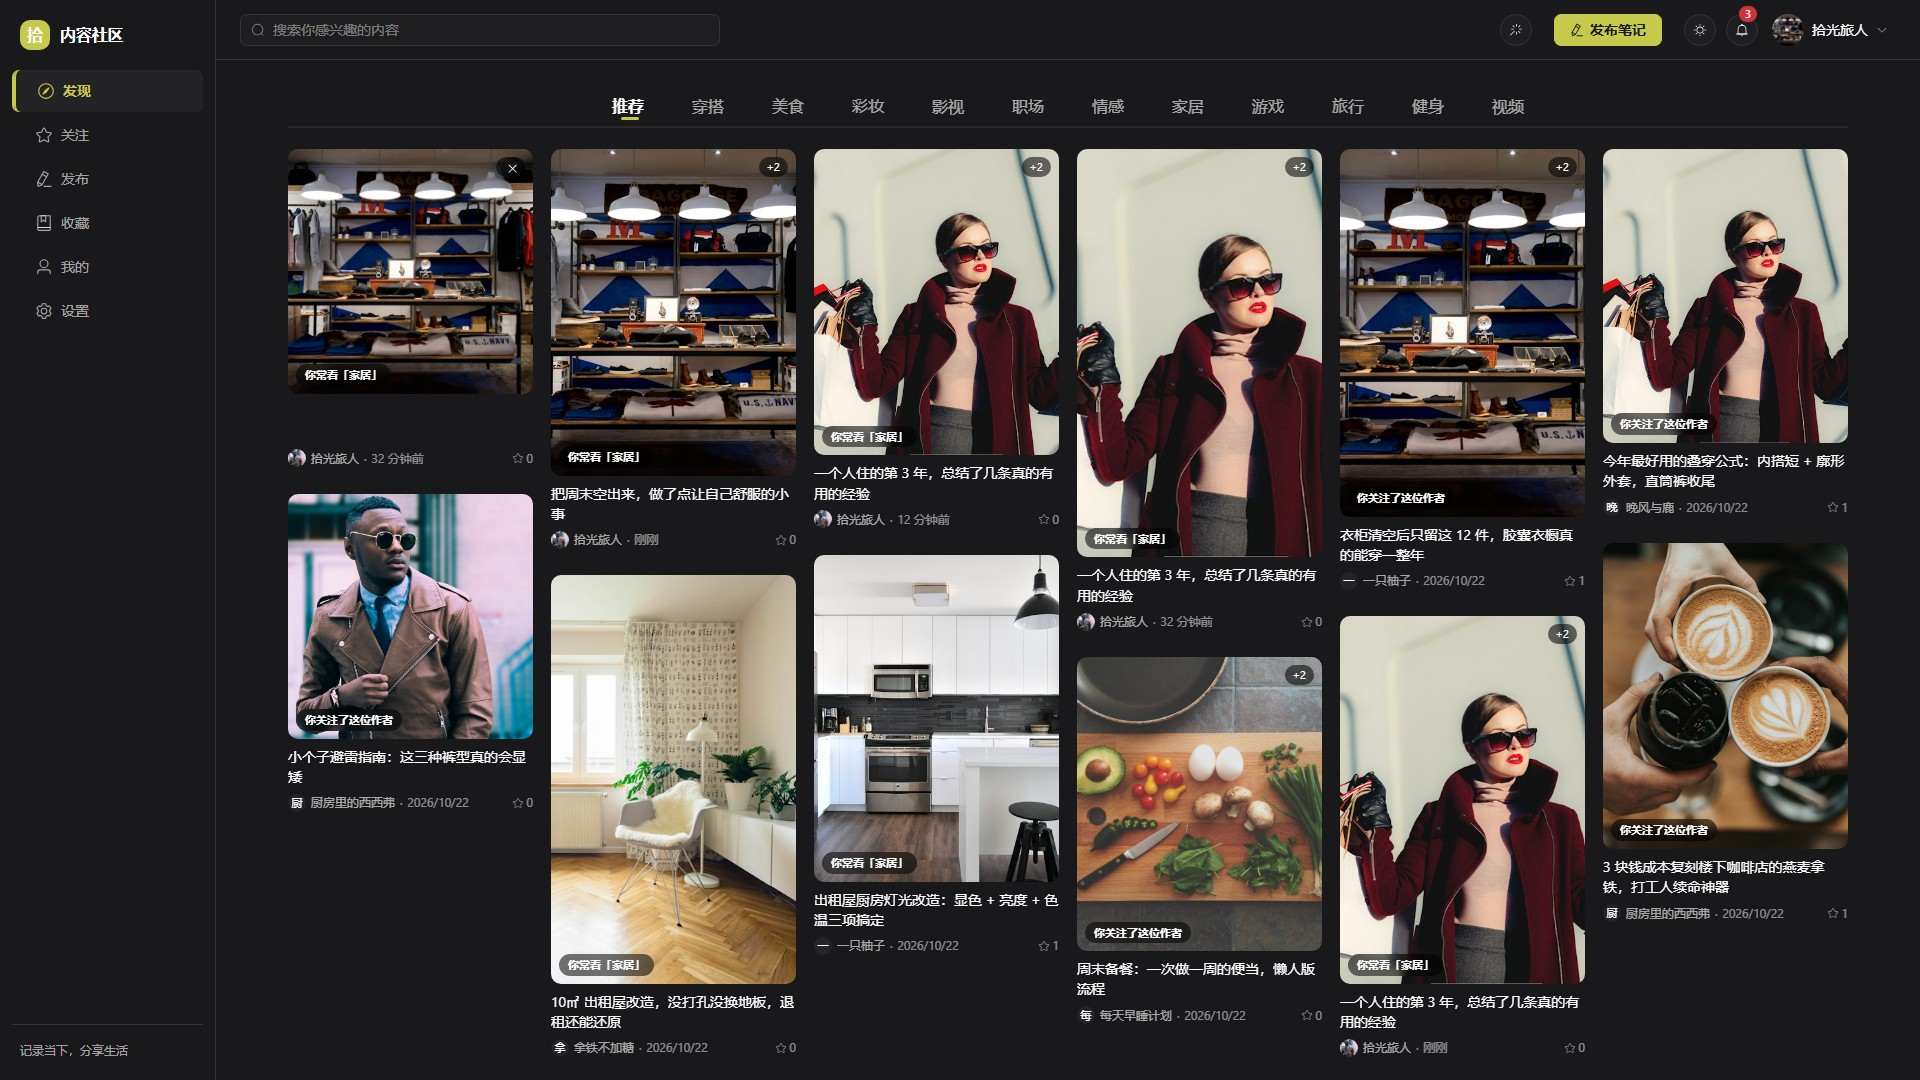
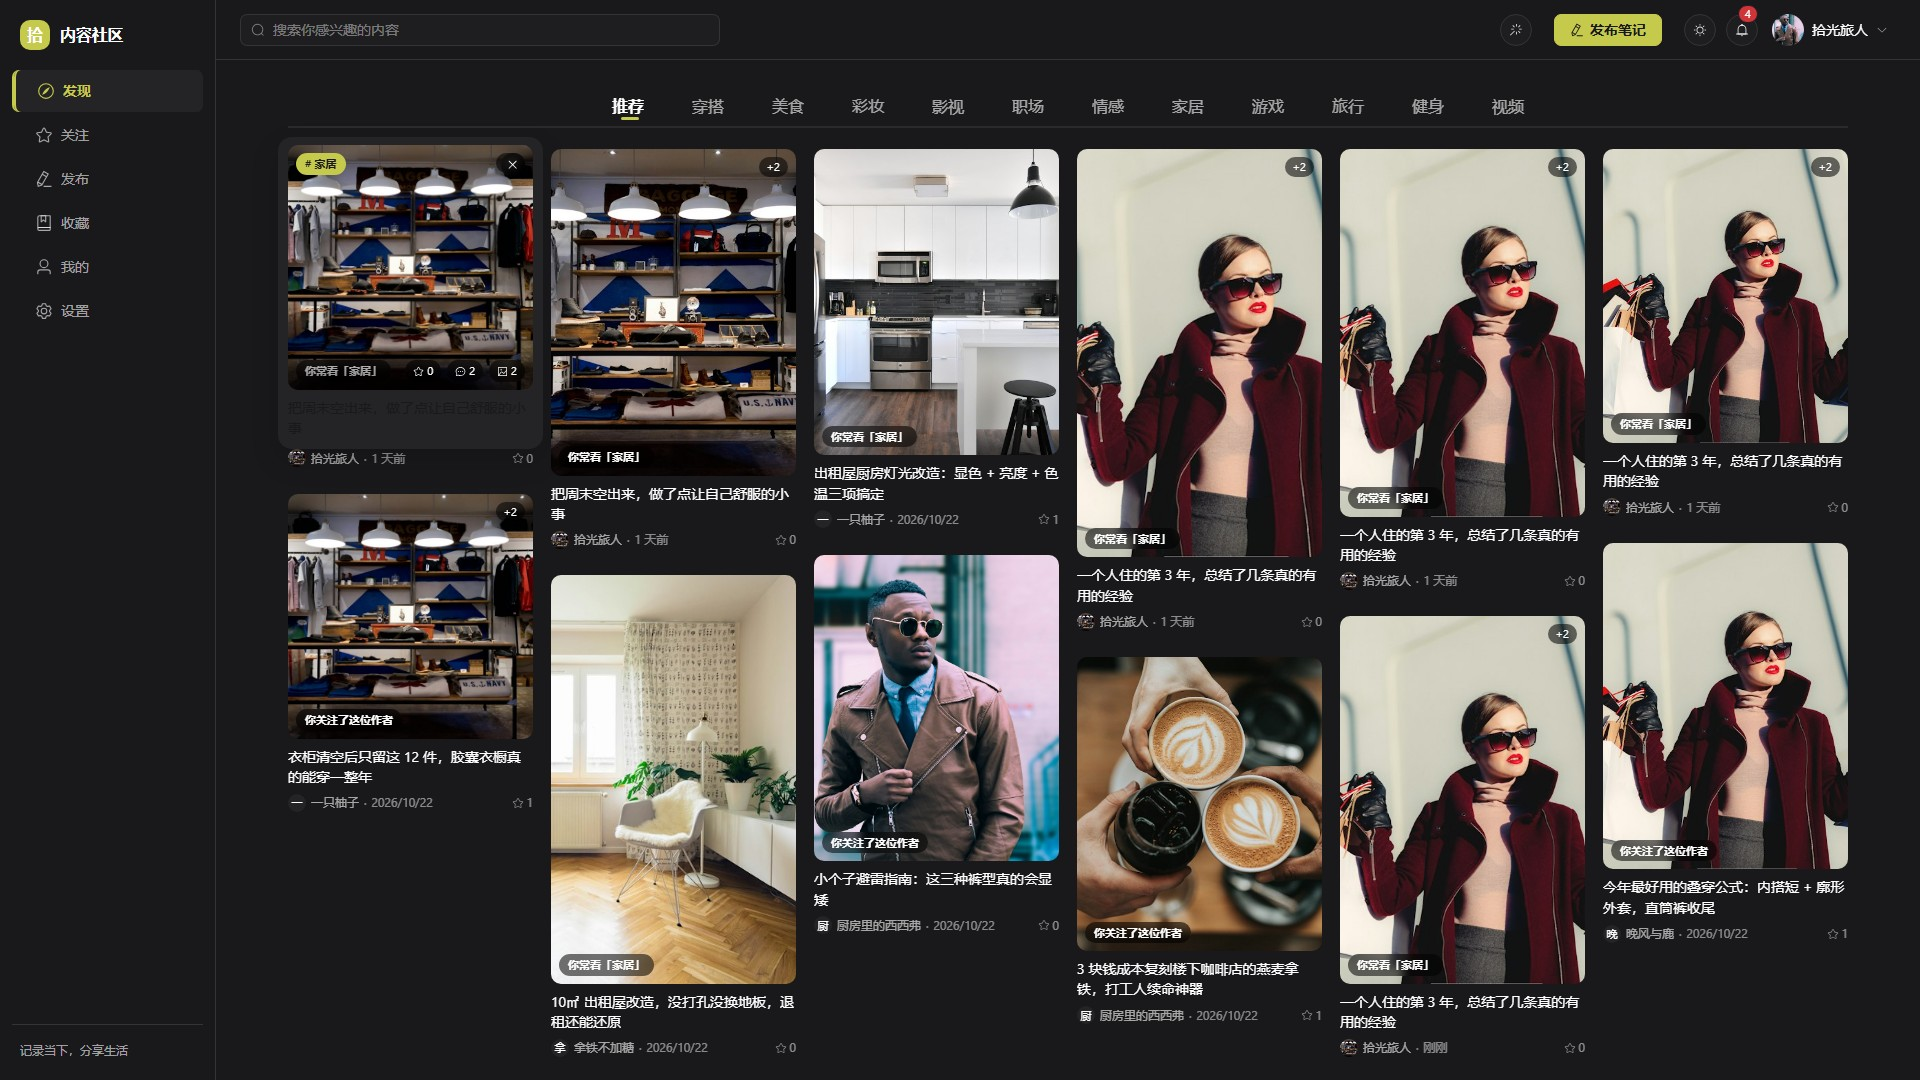
feat(masonry): the card previews its numbers when you lean on it
Adapted from the reference effect (参考/15.文章卡预览效果): a sheet
slides out behind the card, a topic badge fades in, and stat pills
stagger up (0/45/90ms delays). The original drives it with margin
transitions and panels that overflow the card — in a 5-column masonry
that lands on the card below, so everything here is translated to
transform/opacity inside the cover's overflow clip:

- .card::before sheet: inset -8/-10px, peeks into the 18px column gap
- pills (like/comment/image-count) ride a bottom scrim, right-aligned
  to stay clear of the reason badge on the left
- topic badge skips the top-left slot when a search tag-badge owns it
- dismiss button rides the same -4px lift
- keyboard :focus-visible reveals the same layer as hover

diff --git a/client/src/components/PostMasonry.vue b/client/src/components/PostMasonry.vue
@@ -8,7 +8,7 @@
  * 这个组件只做两件事：ResizeObserver 监听宽度 → 按结果渲染 DOM。
  */
 import { ref, computed, onMounted, onBeforeUnmount } from 'vue'
-import { Star, VideoPlay, Close } from '@element-plus/icons-vue'
+import { Star, VideoPlay, Close, ChatDotRound, Picture } from '@element-plus/icons-vue'
 import type { Post } from '@/api/posts'
 import { useRelativeTime } from '@/composables/useRelativeTime'
 import {
@@ -283,6 +283,42 @@ function markCoverBroken(postId: number) {
             <span v-if="props.reasons?.[item.post.id]" class="reason-badge">
               {{ props.reasons[item.post.id] }}
             </span>
+
+            <!--
+              悬停预览层（学习自 参考/15.文章卡预览效果）。
+
+              参考的原始版本靠「垫纸向下滑 + margin 过渡」把数据胶囊放行到卡片
+              外面 —— 在瀑布流里行不通：胶囊会压到下一行卡片上，margin 过渡
+              还会抖动整列布局。所以这里做的是「意译」而不是「照抄」：
+
+              1. 垫纸   → .card::before，整卡背后浮起一层 surface（含投影）
+              2. 分类徽章 → .topic-peek，hover 才显形（搜索命中时 tag-badge
+                          已经占了左上角，所以排除掉避免叠罗汉）
+              3. 数据胶囊 → .peek，贴着封面底边错峰浮出（赞 / 评 / 图数），
+                          底部渐变保证白字可读
+
+              三个胶囊的出场节奏沿用参考的错峰设计（0 / 45 / 90ms delay），
+              但只动 transform 和 opacity —— 封面有 overflow:hidden，
+              渐变和胶囊都关在里面，绝不越界碰下一张卡。
+            -->
+            <span v-if="item.post.topicTag && !tagMatched(item.post)" class="topic-peek">
+              # {{ item.post.topicTag }}
+            </span>
+            <div class="peek-scrim" aria-hidden="true"></div>
+            <div class="peek">
+              <span class="pill">
+                <el-icon><component :is="Star" /></el-icon>
+                {{ item.post.likeCount }}
+              </span>
+              <span class="pill">
+                <el-icon><component :is="ChatDotRound" /></el-icon>
+                {{ item.post.commentCount }}
+              </span>
+              <span v-if="item.post.imageUrls.length" class="pill">
+                <el-icon><component :is="Picture" /></el-icon>
+                {{ item.post.imageUrls.length }}
+              </span>
+            </div>
           </div>
 
           <!-- 标题：两行截断，命中关键词高亮 -->
@@ -444,13 +480,57 @@ function markCoverBroken(postId: number) {
   display: block;
   color: inherit;
   border-radius: var(--radius-md);
+  /*
+   * position + z-index:0 是给下面的「垫纸」（.card::before, z-index:-1）
+   * 圈出一个层叠上下文用的 —— 没有它，-1 会试图钻到页面背景底下，
+   * 垫纸直接消失。transform 也会创建上下文，但那只存在于 hover 态，
+   * 静止态必须有稳定的兜底。
+   */
+  position: relative;
+  z-index: 0;
   /* 键盘用户也要看到「这里能点进去」的邀请，和 hover 同一套反馈 */
-  transition: background-color var(--dur-fast) var(--ease-out-expo);
+  transition:
+    background-color var(--dur-fast) var(--ease-out-expo),
+    transform var(--dur-standard) var(--ease-out-expo);
 }
 
 .card:focus-visible {
   outline: 2px solid var(--accent);
   outline-offset: 4px;
+}
+
+/*
+ * 悬停「垫纸」+ 抬升 —— 参考/15.文章卡预览效果的核心意象。
+ *
+ * 参考的实现是 margin-top + scale 过渡（会触发 layout），这里改成
+ * 纯 transform：垫纸从「藏在卡片正后方」平移到位，卡片整体上浮 4px。
+ * 垫纸比内容大一圈（inset 负值），四边各露出约 8-10px ——
+ * 列间距 18px / 行间距 26px，都容得下，不会碰到邻居。
+ */
+.card::before {
+  content: '';
+  position: absolute;
+  inset: -8px -10px -10px;
+  z-index: -1;
+  border-radius: calc(var(--radius-md) + 4px);
+  background: var(--surface-2);
+  box-shadow: 0 12px 28px rgba(0, 0, 0, 0.16);
+  opacity: 0;
+  transform: translateY(6px) scale(0.985);
+  transition:
+    opacity var(--dur-fast) var(--ease-out-expo),
+    transform var(--dur-standard) var(--ease-out-expo);
+}
+
+.card-wrap:hover .card,
+.card:focus-visible {
+  transform: translateY(-4px);
+}
+
+.card-wrap:hover .card::before,
+.card:focus-visible::before {
+  opacity: 1;
+  transform: none;
 }
 
 /* 封面：圆角、无边框，卡片本身没有背景和描边 */
@@ -590,6 +670,119 @@ function markCoverBroken(postId: number) {
   text-overflow: ellipsis;
 }
 
+/* ===== 悬停预览层 ===== */
+
+/*
+ * 话题徽章（hover 显形）—— 对应参考动效里右上角的分类标签。
+ * 和搜索命中的 .tag-badge 是同一套视觉，但出场时机不同：
+ * tag-badge 是「搜索命中」的常驻信息，这个是浏览时的补充说明。
+ * 左上角已被 tag-badge 占用的情况在模板里排除了（!tagMatched）。
+ */
+.topic-peek {
+  position: absolute;
+  left: 8px;
+  top: 8px;
+  padding: 2px 9px;
+  border-radius: var(--radius-full);
+  font-size: var(--fs-2xs);
+  font-weight: 600;
+  color: var(--accent-foreground);
+  background: var(--accent);
+  opacity: 0;
+  transform: translateY(-4px);
+  transition:
+    opacity var(--dur-fast) var(--ease-out-expo),
+    transform var(--dur-fast) var(--ease-out-expo);
+}
+
+/*
+ * 底部渐变：胶囊是白字，直接压在浅色封面（雪景、白墙）上看不见。
+ * 渐变和胶囊同步显形，hover 离开时一起退场。
+ * aria-hidden 已在模板标出 —— 纯装饰，读屏不该念。
+ */
+.peek-scrim {
+  position: absolute;
+  inset: auto 0 0;
+  height: 56px;
+  background: linear-gradient(to top, rgba(0, 0, 0, 0.55), transparent);
+  opacity: 0;
+  transition: opacity var(--dur-fast) var(--ease-out-expo);
+}
+
+/* 胶囊行：贴右下角，避开左下角的推荐理由徽章 */
+.peek {
+  position: absolute;
+  right: 8px;
+  bottom: 8px;
+  display: flex;
+  gap: 6px;
+}
+
+.pill {
+  display: inline-flex;
+  align-items: center;
+  gap: 3px;
+  padding: 2px 8px;
+  border-radius: var(--radius-full);
+  font-size: var(--fs-2xs);
+  color: #fff;
+  background: rgba(0, 0, 0, 0.55);
+  backdrop-filter: blur(4px);
+  font-variant-numeric: tabular-nums;
+  /* 出场前的隐藏态：藏进封面底边下面 */
+  opacity: 0;
+  transform: translateY(10px);
+  transition:
+    opacity var(--dur-fast) var(--ease-out-expo),
+    transform var(--dur-fast) var(--ease-out-expo);
+}
+
+.pill .el-icon {
+  font-size: 11px;
+}
+
+/*
+ * 错峰出场：沿用参考动效 0.2 / 0.24 / 0.28s 的节奏思路，
+ * 但用 delay 而不是拉长 duration —— 三张胶囊步幅一致、先后有别，
+ * delay 只写在 hover 态，离开时全部归零（胶囊一起退场，不拖泥带水）。
+ * 键盘聚焦（:focus-visible）走同一套，读屏和鼠标用户看到的东西一致。
+ */
+.card-wrap:hover .topic-peek,
+.card:focus-visible .topic-peek,
+.card-wrap:hover .peek-scrim,
+.card:focus-visible .peek-scrim {
+  opacity: 1;
+  transform: none;
+}
+
+.card-wrap:hover .pill,
+.card:focus-visible .pill {
+  opacity: 1;
+  transform: none;
+}
+
+.card-wrap:hover .peek .pill:nth-child(1),
+.card:focus-visible .peek .pill:nth-child(1) {
+  transition-delay: 0ms;
+}
+.card-wrap:hover .peek .pill:nth-child(2),
+.card:focus-visible .peek .pill:nth-child(2) {
+  transition-delay: 45ms;
+}
+.card-wrap:hover .peek .pill:nth-child(3),
+.card:focus-visible .peek .pill:nth-child(3) {
+  transition-delay: 90ms;
+}
+
+/*
+ * 推荐理由和胶囊共用封面底边（一个左一个右）。
+ * hover 时把理由的最大宽度收窄，窄卡上两者相遇也不会叠字。
+ */
+.card-wrap:hover .reason-badge,
+.card:focus-visible .reason-badge {
+  max-width: 52%;
+}
+
 /*
   不感兴趣按钮：
   - 默认 opacity 0，hover 卡片才显形
@@ -621,6 +814,8 @@ function markCoverBroken(postId: number) {
 .card-wrap:hover .dismiss-btn,
 .dismiss-btn:focus-visible {
   opacity: 1;
+  /* 卡片抬升（.card 的 translateY(-4px)）时按钮跟着走，否则悬停瞬间它悬在原位 */
+  transform: translateY(-4px);
 }
 
 .dismiss-btn:hover {
@@ -629,7 +824,7 @@ function markCoverBroken(postId: number) {
 
 /* 只动 transform / opacity / color / border-color，不碰 layout 属性 */
 .dismiss-btn:hover {
-  transform: scale(1.08);
+  transform: translateY(-4px) scale(1.08);
 }
 
 /* ===== 标题 ===== */
